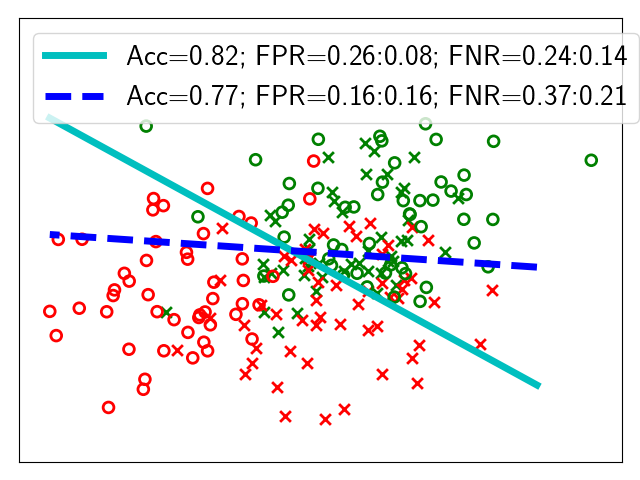
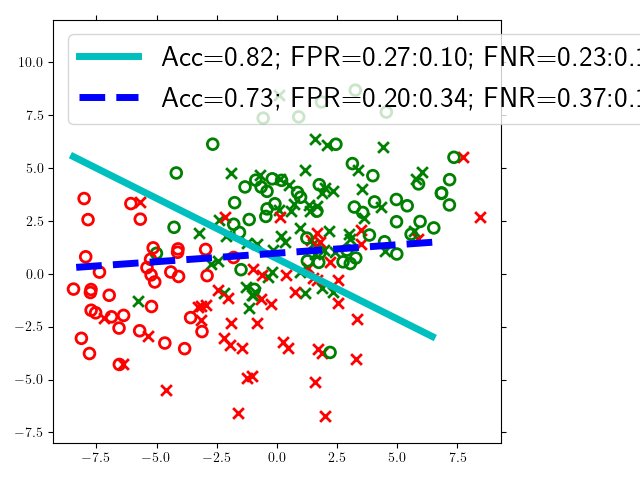
plot from equal odds classifier

diff --git a/script_odds.py b/script_odds.py
@@ -1,8 +1,11 @@
 
 from eq_odds import EqOddsModel
 from tradeoff_plots import readData, select_best_cv
+from tradeoff_plots import get_bootstrap_sample, sample_scores
+from tradeoff_plots import get_score, plot_scatter_sign
 
 from sklearn.linear_model import LogisticRegression
+import numpy as np
 
 
 csvfile = "data/SouthGermanCredit.csv"
@@ -19,6 +22,7 @@ z_indices = [13] # young = 0 older = 1
 
 util_scores = ["Accuracy"]
 fairness_scores = ["Equal Opportunity"]
+num_samples = 800
 
 # csvfile = sys.argv[1]
 # train_n = int(sys.argv[2])
@@ -55,9 +59,32 @@ else:
 fair_clf = EqOddsModel(clf=clf, group_col=21, group_vals=[0, 1])
 fair_clf.train(X_train, Y_train, Z_train)
 
-predicts, labels, new_z_test = fair_clf.predict_proba(X_test, Y_test, Z_test)
-print(predicts)
-print(labels)
-print(new_z_test)
+print("Sampling...")
+sample_util_metrics, sample_fair_metrics, sample_sign_metrics = sample_scores(X_test, Y_test, Z_test, fair_clf, num_samples, util_scores, fairness_scores)
+
+util_scores = np.around(np.array(sample_util_metrics)[:,0],decimals=3)
+fair_scores = np.around(np.array(sample_fair_metrics)[:,0], decimals=3)
+
+fair_scores_pos = []
+util_pos = []
+fair_scores_neg = []
+util_neg = []
+for i,meas in enumerate(sample_sign_metrics):
+    if len(meas[0]) > 0:
+        fair_scores_pos.append(meas[0][0])
+        util_pos.append(util_scores[i])
+    elif len(meas[1]) > 0:
+        fair_scores_neg.append(meas[1][0])
+        util_neg.append(util_scores[i])
+
+fair_scores_pos = np.around(np.array(fair_scores_pos),decimals=3)
+fair_scores_neg = np.around(np.array(fair_scores_neg),decimals=3)
+
+print("Plotting...")
+plot_scatter_sign("Accuracy","Equal Odds",util_pos, fair_scores_pos, util_neg, fair_scores_neg,penalty = "None", sens=False)
 
 
+# predicts, labels, new_z_test = fair_clf.predict_proba(X_test, Y_test, Z_test)
+# print(predicts)
+# print(labels)
+# print(new_z_test)

diff --git a/tradeoff_plots.py b/tradeoff_plots.py
@@ -239,11 +239,11 @@ def measure_equal_oppY1(Y, Z, A):
     a1_0 = 0
     for i, z in enumerate(Z):
         if Y[i] == 1:
-            if z[0] == 0:
+            if z == 0:
                 z0y1 += 1
                 if A[i] == 1:
                     a1_0 += 1
-            elif z[0] == 1:
+            elif z == 1:
                 z1y1 += 1
                 if A[i] == 1:
                     a1_1 += 1
@@ -310,8 +310,13 @@ def sample_scores(X, Y, Z, clf, num_samples, util_scores,fairness_scores, with_s
             Y_pred = clf.predict(samp_comb)
             Y_prob = np.max(clf.predict_proba(samp_comb),axis=1)
         else:
-            Y_pred = clf.predict(samp_x)
-            Y_prob = np.max(clf.predict_proba(samp_x),axis=1)
+            predicts, labels, new_z_test = clf.predict_proba(samp_x, samp_y, samp_z)
+            #Y_pred = clf.predict(samp_x)
+            #Y_prob = np.max(clf.predict_proba(samp_x),axis=1)
+            Y_prob = predicts
+            Y_pred = [round(p) for p in predicts]
+            samp_z = new_z_test
+            samp_y = labels
 
         util_results = []
         for score in util_scores:
